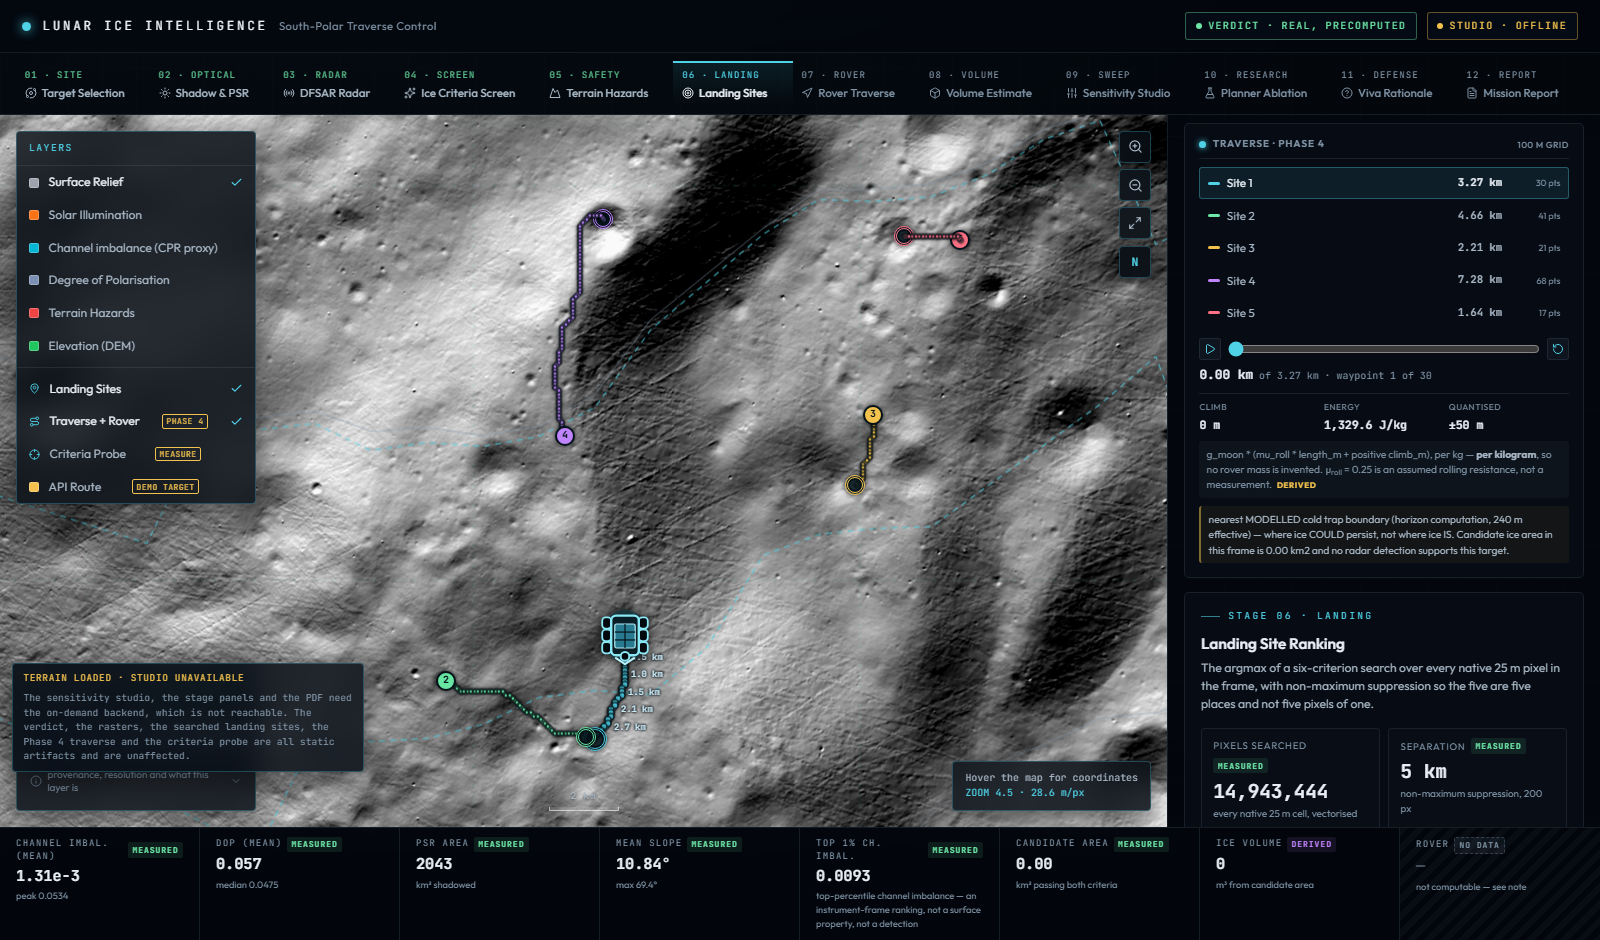
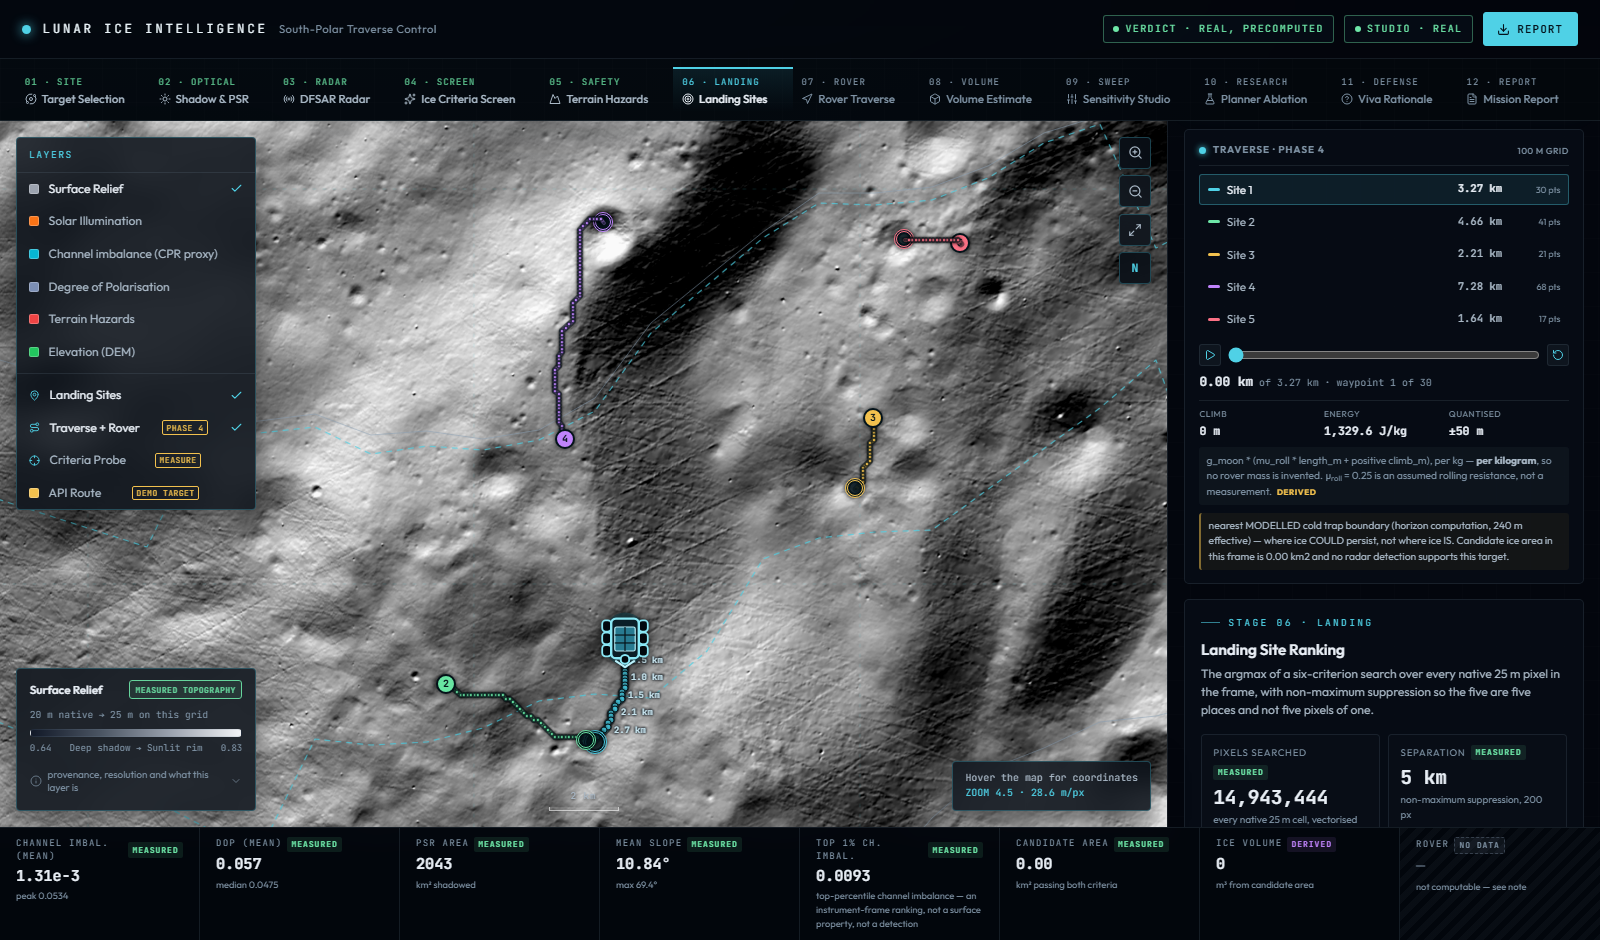
The stage fit never ran, and only the running app could tell you
You were right that the backend was down. Starting it is the small half of this;
the useful half is what having it up exposed.

BACKEND. Was not running. `python -m uvicorn app.main:app --port 8000` is up,
healthy, serving REAL — `demo_generator_enabled: false`, data_mode REAL, 5
landing sites, 3 rover routes. Both badges read REAL, the degraded banner is
gone, and the searched sites and traverse are unchanged by it because they never
needed it.

THE DEFECT IT EXPOSED. On stage 06 only three of the five sites and three of the
five routes were on screen. The stage fit — the thing that is supposed to put all
five in view — was never running at all.

The cause was `requestAnimationFrame`, which fires only when the page actually
PAINTS. On a background tab, a throttled window, or any host that is not
compositing, the callback never runs: no error, no log, and no way to tell that
from a fit that ran and chose this view. Measured in one session: `focusRoute`,
called straight from a click handler, fired every time; `focusSites`, called from
an rAF, fired never. The same condition had already stopped the rover animation
earlier in this session, and it was silently stopping the rail's smooth scroll
too — the traverse panel sat 190 % of a rail-height down, below the fold, exactly
the state the previous commit claimed to have fixed.

Both are now effects. An effect is React's own after-commit hook and has no
[…]

diff --git a/frontend/src/mission/MissionControl.tsx b/frontend/src/mission/MissionControl.tsx
@@ -390,15 +390,34 @@ export default function MissionControl() {
   const gotoStep = (s: number) => {
     setStep(s);
     if (STEP_LAYER[s]) setActiveLayer(STEP_LAYER[s]);
-    // After paint, so the fit measures the panels this stage actually renders.
-    if (s === 6) requestAnimationFrame(() => mapRef.current?.focusSites());
-    if (s === 7 && selectedRoute !== null) {
-      requestAnimationFrame(() => mapRef.current?.focusRoute(selectedRoute));
-    }
+    // The fit itself is an EFFECT, below — not a requestAnimationFrame from
+    // here. See the comment there; it is not a style preference.
   };
   const activeRoutes = showRoute ? ['Shortest', 'Safest', 'Science-Aware'] : [];
   /** The traverse is drawn only where it is the subject. */
   const traverseHere = showTraverse && TRAVERSE_STEPS.has(step) && !!traverse;
+
+  /**
+   * Fit the map to the current stage's subject, after React has committed it.
+   *
+   * NOT `requestAnimationFrame`, which is what this was and why it silently did
+   * nothing: rAF only fires when the page actually paints, so on a background
+   * tab, a throttled window, or any host that is not compositing, the callback
+   * never runs and the fit never happens — with no error and no way to tell that
+   * from "the fit ran and chose this view". Measured here: `focusRoute` fired
+   * from a click handler worked every time while `focusSites` from an rAF fired
+   * never, in the same session. An effect is React's own after-commit hook and
+   * has no such condition. It also runs AFTER the map's child effects, so the
+   * bounds it fits to are already drawn.
+   *
+   * Keyed on `step` alone: selecting a route re-fits through `pickRoute`, and
+   * putting `selectedRoute` here as well would yank the view on every selection.
+   */
+  useEffect(() => {
+    if (step === 6) mapRef.current?.focusSites();
+    else if (step === 7 && selectedRoute !== null) mapRef.current?.focusRoute(selectedRoute);
+    // eslint-disable-next-line react-hooks/exhaustive-deps
+  }, [step]);
 
   /**
    * Bring the traverse controls into view when their stage opens.
@@ -415,13 +434,18 @@ export default function MissionControl() {
     const rail = railRef.current;
     const el = traversePanelRef.current;
     if (!rail || !el) return;
-    const id = requestAnimationFrame(() => {
-      rail.scrollTo({
-        top: Math.max(0, el.offsetTop - rail.offsetTop - 8),
-        behavior: 'smooth',
-      });
+    // Same reason as the fit above: this is already inside an effect, so the
+    // layout is committed and there is nothing to wait for a paint for.
+    // INSTANT, not smooth. Smooth scrolling is animated by the compositor and
+    // does not run on a page that is not painting — the same condition that
+    // stopped the stage fit when it was a requestAnimationFrame. Measured here:
+    // with smooth, the panel stayed 190 % of a rail-height down. This is a
+    // reposition on a stage change, not a gesture, so there is nothing to
+    // animate anyway.
+    rail.scrollTo({
+      top: Math.max(0, el.offsetTop - rail.offsetTop - 8),
+      behavior: 'auto',
     });
-    return () => cancelAnimationFrame(id);
   }, [traverseHere, step]);
   const legend = LAYER_MAP[activeLayer];
 

diff --git a/frontend/src/mission/MissionMap.tsx b/frontend/src/mission/MissionMap.tsx
@@ -858,9 +858,17 @@ export const MissionMap = forwardRef<MissionMapHandle, Props>(function MissionMa
    * Null bounds means there is nothing to show: no search on this host, or an
    * UNREACHABLE route. It does nothing, rather than flying somewhere arbitrary.
    */
-  function fitTo(b: L.LatLngBounds | null | undefined, maxZoom: number): void {
+  function fitTo(b: L.LatLngBounds | null | undefined, maxZoom: number,
+                 what = 'bounds'): void {
     const map = mapRef.current;
-    if (!b || !map) return;
+    // Say WHY nothing happened. A fit that silently no-ops because the layer it
+    // targets has not been drawn yet is indistinguishable, from the outside,
+    // from a fit that ran and chose this view.
+    if (!b || !map) {
+      console.info(`[MissionMap] not fitting to ${what}: `
+        + `${!map ? 'no map' : 'nothing drawn to fit to yet'}`);
+      return;
+    }
     const wrap = map.getContainer().parentElement;
     const w = (sel: string) => {
       const el = wrap?.querySelector(sel) as HTMLElement | null;
@@ -881,13 +889,14 @@ export const MissionMap = forwardRef<MissionMapHandle, Props>(function MissionMa
       paddingBottomRight: [w('.mc-mapstack'), 60],
       animate: false, maxZoom,
     });
+    console.info(`[MissionMap] fitted to ${what} at zoom ${map.getZoom().toFixed(2)}`);
   }
 
   useImperativeHandle(ref, () => ({
     zoomIn: () => mapRef.current?.zoomIn(),
     zoomOut: () => mapRef.current?.zoomOut(),
-    focusSites: () => fitTo(siteBoundsRef.current, 6),
-    focusRoute: (rank: number) => fitTo(routeBoundsRef.current[rank], 7),
+    focusSites: () => fitTo(siteBoundsRef.current, 6, 'the searched sites'),
+    focusRoute: (rank: number) => fitTo(routeBoundsRef.current[rank], 7, `route ${rank}`),
     // Reset returns to the 40 km home window, NOT the full extent. Flying to
     // geom.bounds put the reviewer back in a 1:2.93 letterbox where the craters
     // and the traverse were a hairline — which made the button that is supposed to

diff --git a/docs/METHODS.md b/docs/METHODS.md
@@ -161,6 +161,25 @@ The last of those is worth the emphasis: the banner and the code were making the
 same claim, the banner's version was corrected first, and for one commit the app
 told the truth in a sentence and contradicted it in a render.
 
+**And a sixth instance of the SECOND pattern, in the capture harness itself.**
+The stage fit ran inside a `requestAnimationFrame`, which only fires when the
+page actually paints. On a background tab or a host that is not compositing the
+callback never runs, so the fit silently did not happen — with no error, and no
+way to tell that from a fit that ran and chose this view. Measured in one
+session: `focusRoute`, called straight from a click handler, fired every time;
+`focusSites`, called from an rAF, fired never. The same condition had already
+stopped the rover animation, and it stopped the rail's smooth scroll too.
+
+**`capture_traverse.mjs` could not have caught it**, because headless Chrome
+paints: the harness saw 5/5 sites while the running app showed 3. A verifier that
+runs in a *more permissive environment than the user's* is a verifier that passes
+on conditions the user does not have — the same defect as reading a value the
+application does not use, one level out. Both are now effects and instant
+scrolls: React's own after-commit hook has no such condition, and it runs after
+the map's child effects, so the bounds being fitted to are already drawn. The fit
+also now logs what it fitted, or why it did not, so a silent no-op cannot happen
+again undetected.
+
 **Both of the first two are the same defect as the five in the second pattern,
 one step upstream.** There, a *verifier* restated the value it was meant to check. Here a
 *producer* and a *consumer* each restated a transform that already existed
